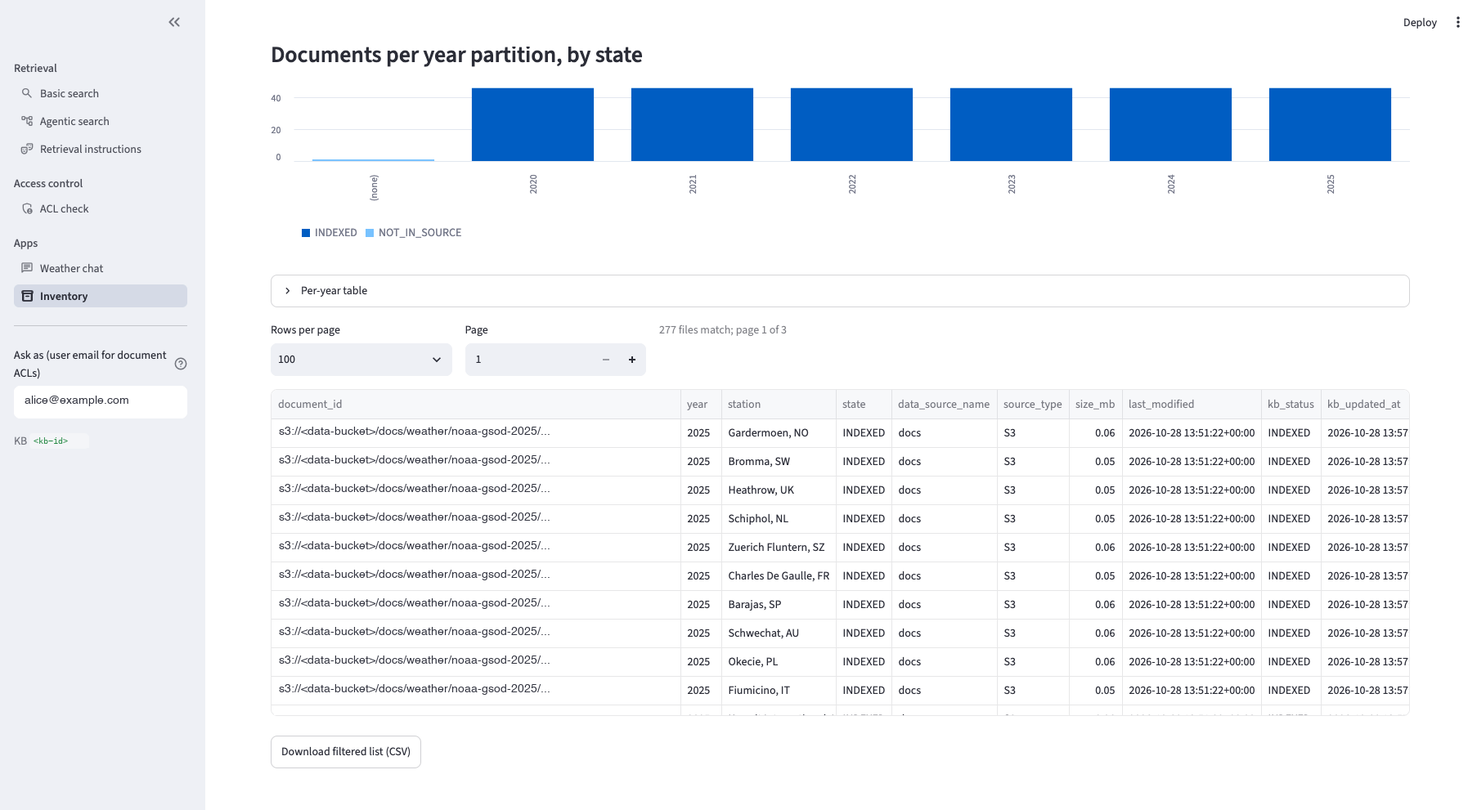
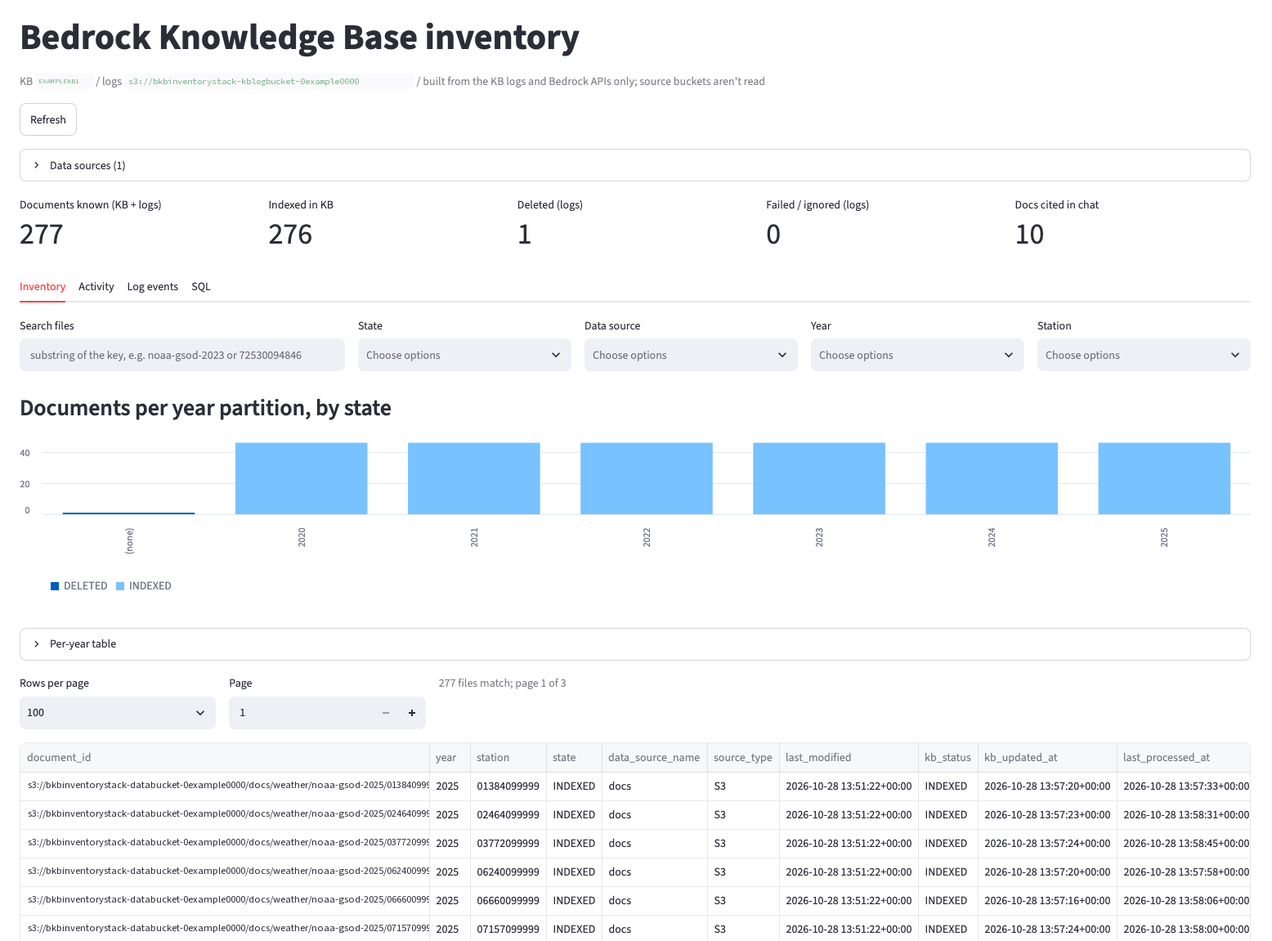
cleanup claims on file sizes

diff --git a/lib/bkb_inventory-stack.ts b/lib/bkb_inventory-stack.ts
@@ -61,6 +61,12 @@ export interface BkbInventoryStackProps extends cdk.StackProps {
    * Default: daily. Pass `null` to sync only on deploy.
    */
   readonly weatherSyncSchedule?: events.Schedule | null;
+  /**
+   * Let the inventory page list the S3 data sources (ListObjectsV2) for file sizes and documents that are in the
+   * source but not in the knowledge base. Default: false (or the `sourceListing` context), so the inventory is
+   * built from the knowledge base logs and Bedrock APIs only.
+   */
+  readonly sourceListing?: boolean;
 }
 
 const APP_DIR = path.join(__dirname, '..', 'app');
@@ -555,6 +561,7 @@ exports.handler = async (event) => {
           ACL_DEFAULT_USER: documentAcls.find(a => a.allow.length)?.allow[0] ?? '',
           LOG_BUCKET: logBucket.bucketName,
           LOG_GROUP: kbLogGroup.logGroupName,
+          SOURCE_LISTING: String(props.sourceListing ?? String(this.node.tryGetContext('sourceListing')) === 'true'),
           CHAT_MODELS: chatModelIds.join(','),
           // Expected verdicts for the ACL check page (the task role can't read acl/ itself).
           DOCUMENT_ACLS: JSON.stringify(documentAcls),

diff --git a/app/common.py b/app/common.py
@@ -34,6 +34,9 @@ DATA_SOURCE_ID = os.environ["DATA_SOURCE_ID"]
 DATA_BUCKET = os.environ["DATA_BUCKET"]
 DATA_PREFIX = os.environ.get("DATA_PREFIX", "")
 LOG_BUCKET = os.environ["LOG_BUCKET"]
+# Off by default: the inventory is built from the KB logs and the Bedrock APIs only, without reading the source
+# buckets. On, it also lists every S3 data source (ListObjectsV2) for file sizes and NOT_CONSUMED / NOT_IN_SOURCE.
+SOURCE_LISTING = os.environ.get("SOURCE_LISTING", "false").lower() == "true"
 FAILED_STATUSES = ["FAILED", "FAILURE", "EMBEDDING_FAILED", "INDEXING_FAILED", "DELETION_FAILED", "METADATA_UPDATE_FAILED"]
 # Only this KB's logs: vended logs land under AWSLogs/<acct>/bedrock/knowledgebases/<region>/<kbId>/yyyy/MM/dd/HH/,
 # and a replaced KB leaves its old logs behind. Override for local dev, e.g. LOG_GLOB=./sample-logs/**/*.log.gz
@@ -129,6 +132,8 @@ def duck() -> duckdb.DuckDBPyConnection:
             COALESCE(event ->> '$.document_location.type', event ->> 'content_type') AS content_type,
             event ->> 'hashed_document_id'                               AS hashed_document_id,
             event ->> 'document_title'                                   AS document_title,
+            -- The source's own last-modified time as the connector saw it (managed KBs).
+            TRY_CAST(event ->> '$.metadata._last_updated_at' AS TIMESTAMPTZ) AS source_updated_at,
             event ->> 'crawl_action'                                     AS crawl_action,
             event ->> '$.crawl_status.Status'                            AS crawl_status,
             event ->> '$.index_status.Status'                            AS index_status,
@@ -285,8 +290,17 @@ def data_sources() -> pd.DataFrame:
     return pd.DataFrame(rows, columns=cols)
 
 
-@st.cache_data(ttl=60)
 def source_listings() -> tuple[pd.DataFrame, list[str]]:
+    """The inventory's view of the sources: the S3 listing when SOURCE_LISTING is on, otherwise nothing, so the
+    inventory never reads the data sources' buckets. Returns (objects, sources that were not listed)."""
+    if SOURCE_LISTING:
+        return list_s3_sources()
+    return (pd.DataFrame(columns=["uri", "data_source_id", "size_mb", "last_modified"]),
+            list(data_sources()["data_source_id"]))
+
+
+@st.cache_data(ttl=60)
+def list_s3_sources() -> tuple[pd.DataFrame, list[str]]:
     """List the objects of every S3 data source. Returns (objects, sources that could not be listed).
 
     Only S3 can be listed with the task role; SaaS connectors (SharePoint, ServiceNow, ...) have no listing,
@@ -356,6 +370,7 @@ def inventory() -> pd.DataFrame:
                arg_max(data_source_id, ts) AS data_source_id,
                arg_max(source_uri, ts) FILTER (WHERE source_uri IS NOT NULL) AS source_uri,
                arg_max(document_title, ts) FILTER (WHERE document_title IS NOT NULL) AS document_title,
+               arg_max(source_updated_at, ts) FILTER (WHERE source_updated_at IS NOT NULL) AS source_updated_at,
                arg_max(hashed_document_id, ts) FILTER (WHERE hashed_document_id IS NOT NULL) AS hashed_document_id,
                arg_max(status_reasons, ts) FILTER (WHERE status_reasons IS NOT NULL) AS last_reasons,
                max(chunks_created) FILTER (WHERE status IN ('INDEXED', 'PARTIALLY_INDEXED')) AS chunks_created,
@@ -364,7 +379,7 @@ def inventory() -> pd.DataFrame:
     """)
     if latest.empty:
         latest = pd.DataFrame(columns=["uri", "last_log_status", "last_log_at", "data_source_id", "source_uri",
-                                       "document_title", "hashed_document_id", "last_reasons", "chunks_created",
+                                       "document_title", "source_updated_at", "hashed_document_id", "last_reasons", "chunks_created",
                                        "jobs_seen"])
 
     # Outer joins: a doc can be in S3 but never ingested, or only in logs (e.g. ignored, or since deleted from S3).
@@ -375,6 +390,9 @@ def inventory() -> pd.DataFrame:
         inv.pop("data_source_id_log"))
     ds = data_sources()
     inv = inv.merge(ds[["data_source_id", "data_source_name", "source_type"]], on="data_source_id", how="left")
+    # The S3 listing's time when listed, otherwise the source time the connector logged.
+    inv["last_modified"] = pd.to_datetime(inv["last_modified"], utc=True).fillna(
+        pd.to_datetime(inv.pop("source_updated_at"), utc=True))
     inv["consumed"] = inv["kb_status"].eq("INDEXED")
     inv["in_source"] = inv["size_mb"].notna()
     # Listable = we know the full source contents (S3 sources the task role can read).
@@ -422,7 +440,8 @@ def station_names() -> dict[str, str]:
     """document_id -> "station NAME (year)". The NAME comes from the first data row of one CSV per station
     (a 2 KB range read); the year from its noaa-gsod-<year>/ partition."""
     names, by_station = {}, {}
-    listed, _ = source_listings()
+    # Labels for the search and chat pages; the inventory page doesn't use them, so it never reads the documents.
+    listed, _ = list_s3_sources()
     for uri in listed["uri"]:
         if uri.endswith(".csv"):
             by_station.setdefault(uri.rsplit("/", 1)[-1], []).append(uri)

diff --git a/app/inventory_page.py b/app/inventory_page.py
@@ -10,11 +10,12 @@ SaaS sources (SharePoint, ServiceNow, ...) can't be listed, so their rows come f
 import pandas as pd
 import streamlit as st
 
-from common import (FAILED_STATUSES, KB_ID, LOG_BUCKET, data_sources, ingestion_jobs, inventory, query, source_listings,
-                    station_names, user_query)
+from common import (FAILED_STATUSES, KB_ID, LOG_BUCKET, SOURCE_LISTING, data_sources, ingestion_jobs, inventory, query,
+                    source_listings, user_query)
 
 st.title("Bedrock Knowledge Base inventory")
-st.caption(f"KB `{KB_ID}` / logs `s3://{LOG_BUCKET}`")
+st.caption(f"KB `{KB_ID}` / logs `s3://{LOG_BUCKET}`"
+           + ("" if SOURCE_LISTING else " / built from the KB logs and Bedrock APIs only; source buckets aren't read"))
 
 # Read-only: the task role can't start syncs. Ingestion runs from `cdk deploy` (weather or ACL changes) and the
 # weather-sync schedule (only when the mirrored data changes).
@@ -27,16 +28,23 @@ _, unlisted = source_listings()
 with st.expander(f"Data sources ({len(ds)})"):
     st.dataframe(ds.assign(listed=~ds["data_source_id"].isin(unlisted) & ds["bucket"].notna()),
                  width="stretch", hide_index=True)
-    if unlisted:
+    if not SOURCE_LISTING:
+        st.caption("Source listing is off (`SOURCE_LISTING`), so rows come from the KB logs and "
+                   "ListKnowledgeBaseDocuments only: no file sizes and no NOT_CONSUMED / NOT_IN_SOURCE rows.")
+    elif unlisted:
         st.caption("Unlisted sources (SaaS connectors, or S3 buckets the task role can't read) show only what the "
                    "KB API and logs know about: no NOT_CONSUMED / NOT_IN_SOURCE rows.")
 
 # Current-state metrics. Chunk counts only exist in vector-KB logs; managed KBs don't log them.
-metrics = [
-    ("Objects in listed sources", int(inv["in_source"].sum())),
-    ("Indexed in KB", int(inv["consumed"].sum())),
-    ("Not consumed", int((inv["in_source"] & ~inv["consumed"]).sum())),
-    ("Not in source", int((inv["listable"] & ~inv["in_source"]).sum())),
+metrics = [("Indexed in KB", int(inv["consumed"].sum()))]
+if SOURCE_LISTING:
+    metrics = [("Objects in listed sources", int(inv["in_source"].sum())), *metrics,
+               ("Not consumed", int((inv["in_source"] & ~inv["consumed"]).sum())),
+               ("Not in source", int((inv["listable"] & ~inv["in_source"]).sum()))]
+else:
+    metrics = [("Documents known (KB + logs)", len(inv)), *metrics,
+               ("Deleted (logs)", int((inv["last_log_status"].eq("DELETED") & ~inv["consumed"]).sum()))]
+metrics += [
     ("Failed / ignored (logs)", int(inv["last_log_status"].isin(FAILED_STATUSES + ["RESOURCE_IGNORED"]).sum())),
     ("Docs cited in chat", int((inv["times_cited"] > 0).sum())),
 ]
@@ -57,12 +65,13 @@ with tab_inv:
     df.loc[df["last_log_status"].isin(["RESOURCE_IGNORED"]), "state"] = "IGNORED"
     df.loc[df["kb_status"].eq("FAILED") | df["last_log_status"].isin(FAILED_STATUSES), "state"] = "FAILED"
     df.loc[df["kb_status"].isin(["PENDING", "STARTING", "IN_PROGRESS"]), "state"] = "IN_PROGRESS"
+    df.loc[df["last_log_status"].eq("DELETED"), "state"] = "DELETED"
     df.loc[df["consumed"], "state"] = "INDEXED"
     df.loc[df["listable"] & ~df["in_source"], "state"] = "NOT_IN_SOURCE"  # KB/log only: since deleted from S3
     # Weather docs are partitioned as noaa-gsod-<year>/<station>.csv; other documents have no year or station.
     df["year"] = df["key"].str.extract(r"noaa-gsod-(\d{4})/", expand=False)
-    names = station_names()
-    df["station"] = df["uri"].map(names).str.replace(r" \(\d{4}\)$", "", regex=True)
+    # Station ID from the key, so the page never reads the documents themselves.
+    df["station"] = df["key"].str.extract(r"noaa-gsod-\d{4}/([^/]+)\.csv$", expand=False)
 
     # ---- filters
     f1, f2, f3, f4, f5 = st.columns([3, 2, 2, 2, 2])
@@ -99,9 +108,10 @@ with tab_inv:
     p3.caption(f"{len(df):,} files match; page {page} of {pages}")
     st.dataframe(
         df.iloc[(page - 1) * page_size: page * page_size][
-            ["uri", "year", "station", "state", "data_source_name", "source_type", "size_mb", "last_modified",
-             "kb_status", "kb_updated_at", "last_log_at", "jobs_seen", "times_cited", "last_cited_at",
-             "last_reasons", "kb_status_reason", "source_uri"]],
+            ["uri", "year", "station", "state", "data_source_name", "source_type"]
+            + (["size_mb"] if SOURCE_LISTING else [])
+            + ["last_modified", "kb_status", "kb_updated_at", "last_log_at", "jobs_seen", "times_cited",
+               "last_cited_at", "last_reasons", "kb_status_reason", "source_uri"]],
         width="stretch", hide_index=True,
         # document_id (s3:// URI for S3) is what CheckIngestedDocumentAcl / GetIngestedDocumentAcl expect.
         column_config={"uri": st.column_config.TextColumn("document_id"),

diff --git a/README.md b/README.md
@@ -105,8 +105,8 @@ A Streamlit multipage app in one container. Every page sends the sidebar's **Ask
 | Agentic search | `AgenticRetrieveStream` | A live trace (planning, sub-queries, full-document expansions) and a streamed answer whose `[n]` citation marks point into the results table |
 | Retrieval instructions | `AgenticRetrieveStream` with `retrievalInstructionConfiguration` | Pick a persona, see its fields and review status, and run a demo question side by side with and without the instruction. The second demo question is one the persona's answer policy should decline or redirect |
 | ACL check | `GetDocumentContent` with `userContext` | A documents-by-users matrix of ALLOW / DENY / NOT_FOUND / ERROR, compared with the verdict the stack's ACL predicts, with CSV download. A run where no expected ALLOW returns ALLOW is marked invalid |
-| Weather chat | `Converse` with `Retrieve` as a tool | A Claude agent that cites the chunks it used, with each cited document's ingestion history |
-| Inventory | S3 and knowledge base APIs, DuckDB over the logs | What the knowledge base has ingested, see below |
+| Weather chat | `ConverseStream` with `Retrieve` as a tool | A Claude agent that cites the chunks it used, with each cited document's ingestion history |
+| Inventory | DuckDB over the knowledge base logs, knowledge base APIs, and optionally S3 listing | What the knowledge base has ingested, see below |
 
 Agentic search and the instruction page use `foundationModelType: MANAGED`, so Bedrock picks the planning model. That model is invoked with the caller's credentials, so the task role has `bedrock:InvokeModelWithResponseStream` on `*`, as described in the [Bedrock User Guide](https://docs.aws.amazon.com/bedrock/latest/userguide/kb-test-agentic-retrieve.html#kb-agentic-retrieve-permissions).
 
@@ -114,60 +114,79 @@ The retrieval instructions page runs the same question with and without a person
 
 ![Retrieval instructions page: baseline answer next to the answer with the "Sunny, the TV forecaster" instruction applied](images/retrieval-instructions.png)
 
-Station names come from the `NAME` column of each CSV file, read with a 2 KB range request and cached for an hour. The ACL check only knows the global ACL file, not per-document `.metadata.json` overrides.
+On the search, ACL check and chat pages, station names come from the `NAME` column of each CSV file, read with a 2 KB range request and cached for an hour. The inventory page shows the station ID from the object key instead, so it doesn't read the documents. The ACL check only knows the global ACL file, not per-document `.metadata.json` overrides.
 
 ### Weather chat
 
 Claude on Bedrock (the `ConverseStream` API) with one tool, `search_knowledge_base`, backed by the knowledge base `Retrieve` API and filtered by the sidebar user's ACLs. The model decides when and what to search, can search several times per question, and cites retrieved chunks inline as `[S1]`, `[S2]` and so on.
 
-- **Sources**: each answer lists the chunks it cited (station, score, text), joined to the inventory: knowledge base status, chunk count, last ingestion time and how often the document has been cited.
+- **Sources**: each answer lists the chunks it cited (station, score, text), joined to the inventory: knowledge base status, last ingestion time, how often the document has been cited and, where the logs record it (vector knowledge bases), the chunk count.
 - **Citation events**: the citations of every answer are written as JSON Lines to `s3://<log bucket>/app/citations/dt=YYYY-MM-DD/`. DuckDB reads them back as the `kb_citations` view, so the inventory shows how often each document was used in answers, in addition to whether it was ingested. Each event holds the question and the **Ask as** address, so a lifecycle rule deletes them after 90 days; the knowledge base logs under `AWSLogs/` are kept as the ingestion history.
 - **Models**: a sidebar picker over the cross-Region inference profiles in the `chatModelIds` stack prop. The `bedrock:InvokeModel` grant is scoped to those profiles, but agentic retrieval needs `bedrock:InvokeModelWithResponseStream` on `*` (see above), so the task role can stream any model the account has access to. See [Security](#security).
 - `RetrieveAndGenerate` isn't used because it requires custom orchestration and generation prompt templates for Claude 5 models. `Retrieve` plus `Converse` with tool use gives more control.
 
 ### Inventory
 
-- **Inventory**: search by key, filter by state and group files per day (UTC), by S3 last-modified time or last knowledge base activity. A per-day chart and table, a paginated file list and CSV export of the filtered set. Each row combines three sources, keyed by document ID:
-  1. `ListObjectsV2` on the data bucket: what *should* be in the knowledge base
-  2. `ListKnowledgeBaseDocuments`: what the knowledge base says it has now (`INDEXED`, `FAILED`, ...)
-  3. the knowledge base logs, through DuckDB: the latest status per document, ignore and failure reasons, and how many ingestion jobs touched it
+The inventory answers two questions: what is in the knowledge base now, and what each ingestion job did. It is built from what the knowledge base itself reports, without reading the source buckets. Each document is keyed by its document ID and combines:
 
-  This surfaces documents that are in S3 but were never ingested, and documents that were ignored and only show up in the logs. It covers **every data source of the knowledge base**, see [Other data sources](#other-data-sources).
+1. The knowledge base logs in the log bucket, read with DuckDB: the latest status per document (including deletions), ignore and failure reasons, the source's last-modified time as the connector saw it, and how many ingestion jobs processed it
+2. `ListKnowledgeBaseDocuments`: what the knowledge base says it has now (`INDEXED`, `FAILED`, ...)
+3. Optionally, `ListObjectsV2` on each S3 data source, see [Source listing](#source-listing)
 
-  ![Inventory page: documents per year partition by state, and the paginated file list](images/inventory.png)
-- **Ingestion jobs**: from `ListIngestionJobs` and the `StartIngestionJob.StatusChanged` log events.
-- **Log events**: the raw event timeline.
+This surfaces documents that were ignored or failed and only show up in the logs, and documents that were deleted. It covers **every data source of the knowledge base**; see [Other data sources](#other-data-sources) for what changes with connectors other than S3.
+
+The top of the page shows counts: documents known to the knowledge base and its logs, indexed, deleted, failed or ignored, and cited in chat. Below that are four tabs:
+
+- **Inventory**: current state, one row per document. Search by key and filter by state, data source, year and station ID. A chart and table of documents per year partition, a paginated file list and a CSV export of the filtered set.
+
+  ![Inventory page: documents per year partition by state, including one deleted document, and the paginated file list](images/inventory.png)
+- **Activity**: history. Documents processed per day by logged status (for example `INDEXED` or `DELETED`), filterable by date range and ingestion job, followed by the jobs from `ListIngestionJobs` and their `StartIngestionJob.StatusChanged` milestones from the logs.
+- **Log events**: the raw event timeline. Select one or more ingestion jobs in the table at the top to see only their events, and filter by level, event type and status. For example, select a job and the status `DELETED` to see which documents that job removed.
 - **SQL**: read-only DuckDB SQL over the `kb_logs`, `kb_logs_raw` and `kb_citations` views. Only `SELECT` (including `WITH`, `DESCRIBE` and `SUMMARIZE`) and `EXPLAIN` statements run, checked with DuckDB's parser, so `COPY ... TO`, `EXPORT`, `ATTACH`, `CREATE` and `SET` are refused. The connection is also sandboxed: it can only reach the knowledge base log and citation prefixes in the log bucket. Local files, HTTP, other S3 locations, installing extensions and changing settings are blocked.
 
 The app is read-only for the knowledge base: it can't start syncs. Ingestion runs from `cdk deploy` (when the documents or ACLs change) and from the `WeatherSync` schedule (when the source files change).
 
+#### Source listing
+
+The logs only know about documents the connector saw. A document that was never picked up, for example one with no ACL entry, doesn't appear in them. To find those, and to show file sizes, deploy with `./scripts/deploy.sh -c sourceListing=true` (or set the `sourceListing` stack prop). The inventory then also lists every S3 data source with `ListObjectsV2` and adds:
+
+- the counts of objects in the listed sources, objects not consumed (`NOT_CONSUMED`) and documents no longer in the source (`NOT_IN_SOURCE`)
+- a `size_mb` column, and the last-modified time from the listing
+
+Listing reads the source buckets, needs `s3:ListBucket` on each of them, and makes one request per 1,000 objects, at most once a minute while the page is in use. It is off by default.
+
 ## Other data sources
 
-The app is connector-agnostic. It discovers the knowledge base's data sources with `ListDataSources` and `GetDataSource` and inventories all of them, so adding a SharePoint, ServiceNow, Confluence, web crawler or other connector to the knowledge base is enough. The stack itself only creates the S3 data source.
+The stack only creates an S3 data source, but the app works with any connector. It discovers the knowledge base's data sources with `ListDataSources` and `GetDataSource` and inventories all of them, so adding a SharePoint, ServiceNow, Confluence, web crawler or other data source to the knowledge base is enough. To set up connectors such as SharePoint, OneDrive, Confluence or Google Drive for a managed knowledge base, see [KB Connector Helper](https://github.com/aws-samples/sample-managed-kb-connector-setup).
+
+What differs between connectors:
 
 - **Logs**: the vended log envelope (`event_timestamp`, `event_type`, `level`, `event`) is the same for every connector. Managed knowledge bases log a connector-independent document event with `document_id`, `source_uri`, `content_type`, per-stage statuses and `connector_document_status` ([documentation](https://docs.aws.amazon.com/bedrock/latest/userguide/kb-managed-observability.html)). Vector knowledge bases nest the location per connector instead (`document_location.s3_location.uri`, `web_location.url`, ...). The `kb_logs` view handles both.
-- **Key**: rows are keyed by `document_id` (an `s3://` URI for S3, the connector's ID otherwise). `Retrieve` returns the document's `source_uri` as its location, so chat citations are mapped back to `document_id` through the logs.
-- **Source listing**: only S3 data sources can be listed, and the task role can only read `docs/` in its own bucket; grant read access to other buckets to list them too. SaaS sources such as SharePoint and ServiceNow have no listing, so their rows come from `ListKnowledgeBaseDocuments` and the logs only. They show `INDEXED`, `FAILED` or `IGNORED` with reasons and citations, but never `NOT_CONSUMED` or `NOT_IN_SOURCE`.
+- **Document ID**: an `s3://` URI for S3, the connector's own ID otherwise. `Retrieve` returns the document's `source_uri` as its location, so chat citations are mapped back to the document ID through the logs.
+- **Source listing**: when [source listing](#source-listing) is on, only S3 data sources are listed. The task role can only read `docs/` in its own bucket, so grant it read access to any other bucket you want listed. SaaS sources such as SharePoint and ServiceNow are never listed, so their rows always come from `ListKnowledgeBaseDocuments` and the logs only.
+- **File sizes**: at the time of writing, neither the knowledge base application logs nor `ListKnowledgeBaseDocuments` include a document's size. The log delivery's field selection only chooses which top-level fields are written, so it can't add one. The `size_mb` column therefore needs source listing, and is only available for S3 sources.
+
+  This sample doesn't collect sizes from other connectors. If you need them, add a listing for that connector to `list_s3_sources()` in [`app/common.py`](app/common.py), or a function like it. Use the source system's own API with read-only credentials granted for that purpose, and key the rows by the same document ID the knowledge base logs. A listing also enables `NOT_CONSUMED` and `NOT_IN_SOURCE` for that source.
 - **ACLs**: `userContext` works the same for every connector. SharePoint ACLs need `ENTRA_ID_APP_ONLY` authentication, and ServiceNow ACLs enforce its user criteria.
 
 ## Design notes
 
 **S3 and CloudWatch Logs for the knowledge base logs.** Both are deployed, for different needs:
 
-- S3 is the copy for analysis. Delivery to S3 costs less than CloudWatch Logs ingestion, and DuckDB reads the files in place. Knowledge base logs can be delivered to S3 as `plain`, `json` or `w3c`, not Parquet. The key layout is `AWSLogs/<account>/bedrock/knowledgebases/<region>/<knowledgeBaseId>/{yyyy}/{MM}/{dd}/{HH}/`, and DuckDB reads only the current knowledge base's prefix, because a replaced knowledge base leaves its old logs behind. Managed knowledge base document events carry `document_id` (the `s3://` URI), `hashed_document_id`, `document_title`, `crawl_action` and the per-stage `crawl_status`, `index_status` and `sync_status`. The `kb_logs` view maps them onto document statuses (for example `sync_status = SUCCESS` → `INDEXED`).
+- S3 is the copy for analysis. Delivery to S3 costs less than CloudWatch Logs ingestion, and DuckDB reads the files in place. Knowledge base logs can be delivered to S3 as `plain`, `json` or `w3c`, not Parquet. The key layout is `AWSLogs/<account>/bedrock/knowledgebases/<region>/<knowledgeBaseId>/{yyyy}/{MM}/{dd}/{HH}/`, and DuckDB reads only the current knowledge base's prefix, because a replaced knowledge base leaves its old logs behind. Managed knowledge bases report a status per stage (`crawl_status`, `index_status`, `sync_status`, `connector_document_status`) plus a `crawl_action`. The `kb_logs` view maps these onto one document status: a successful stage becomes `INDEXED`, or `DELETED` when the action is `DELETE`, and a failed stage becomes `FAILED`.
 - CloudWatch Logs is the operational copy: Logs Insights for debugging (`filter event.status = "RESOURCE_IGNORED"`) and metric filters or alarms on `level = "ERROR"`. Retention is one month. If cost matters, this is the one to drop.
 
 **DuckDB.** Logs are only written during ingestion jobs (roughly one event per document state change), so even thousands of documents produce little data. DuckDB scans the gzipped JSON files directly, with no AWS Glue or Amazon Athena setup. The `event` column is read as `JSON` because job-level and document-level events have different shapes. Credentials come from the task role and are passed to DuckDB as a secret on every query, so role credential rotation is handled. For much larger volumes, compact the logs to Parquet on a schedule or use Athena.
 
-**Logs are history, not state.** The authoritative list of what is indexed now is `ListKnowledgeBaseDocuments`. The logs add why (ignore reasons) and when. The inventory uses both.
+**Logs are history, not state.** The authoritative list of what is indexed now is `ListKnowledgeBaseDocuments`. The logs add why (ignore reasons) and when. The inventory uses both. The stack keeps the knowledge base logs under `AWSLogs/` with no expiry, because the history (including when each document was deleted) is rebuilt from them on every page load. For this sample, analytics straight from S3 is enough. For a production inventory, consider writing each document's latest state to a persistent store such as Amazon DynamoDB as log files arrive, so the current state doesn't depend on keeping and rescanning every log file.
 
-**Scale.** The inventory loads the full S3 listing and knowledge base document list into memory, which works up to roughly 100,000 files, and DuckDB scans the full log history for the latest status per document. Beyond that, compact the logs to Parquet daily and keep a materialized latest-status table.
+**Scale.** The inventory loads the knowledge base document list (and, with source listing on, the S3 listing) into memory, and DuckDB scans the full log history for the latest status per document. Results are cached for a minute. This works up to roughly 100,000 files. Beyond that, compact the logs to Parquet daily and keep a materialized latest-status table, and if you use source listing, read the file list from an [S3 Inventory](https://docs.aws.amazon.com/AmazonS3/latest/userguide/storage-inventory.html) report instead.
 
 ## Security
 
 - **No internet exposure.** The load balancer is internal and the tasks run in private subnets without public IP addresses. The only way in is a Session Manager session, so access is limited to IAM principals allowed `ecs:ExecuteCommand` and `ssm:StartSession` on the task. The tunnel is encrypted by Session Manager; the load balancer listener itself is HTTP inside the VPC.
 - **No authentication in the app.** Everyone who can open the tunnel has the same access, and the **Ask as** field is not an identity. Before sharing the app with users who should only see their own documents, put authentication in front of it (for example Application Load Balancer authentication with Amazon Cognito or your OIDC identity provider) and derive the `userContext` from the authenticated identity.
-- **Least privilege.** The app's task role can list and retrieve from this knowledge base, apply the stack's own retrieval instructions, read `docs/` in the data bucket and the log and citation prefixes in the log bucket, and write only chat citations. It can't start ingestion jobs or read the ACL file.
+- **Least privilege.** The app's task role can list and retrieve from this knowledge base, apply the stack's own retrieval instructions, read `docs/` in the data bucket (for station names on the search, ACL check and chat pages, and for source listing when it's on) and the log and citation prefixes in the log bucket, and write only chat citations. It can't start ingestion jobs or read the ACL file.
 - **Model invocation.** Because agentic retrieval needs `bedrock:InvokeModelWithResponseStream` on `*`, the task role, and anyone allowed to open the tunnel or use ECS Exec on the task, can stream any Bedrock model the account has access to, not only the `chatModelIds` profiles. Bound the cost with an [AWS Budgets](https://docs.aws.amazon.com/cost-management/latest/userguide/budgets-managing-costs.html) budget on Amazon Bedrock or a CloudWatch alarm on the `AWS/Bedrock` invocation and token metrics, and limit who can start a Session Manager session.
 - **Container.** The app runs as an unprivileged user, and ECR scans the image on push.
 - **Model output.** Answers are rendered as Markdown (raw HTML is not rendered). With the sample's numeric NOAA data that is safe, but a document from an untrusted source could carry instructions that make the model emit Markdown links or images; an image is fetched by the browser and could send text to an external URL. Before connecting untrusted sources, add [Amazon Bedrock Guardrails](https://docs.aws.amazon.com/bedrock/latest/userguide/guardrails.html) (for example prompt-attack filters) to the chat and agentic calls, and strip or neutralize links and images in model output.
@@ -180,6 +199,7 @@ The app is connector-agnostic. It discovers the knowledge base's data sources wi
 cd app && pip install -r requirements.txt && python -c "import duckdb; duckdb.sql('INSTALL httpfs')"
 AWS_REGION=us-east-1 KB_ID=... DATA_SOURCE_ID=... DATA_BUCKET=... LOG_BUCKET=... streamlit run app.py
 # LOG_GLOB='./sample-logs/**/*.log.gz' reads local log files instead of S3
+# SOURCE_LISTING=true also lists the S3 data sources on the inventory page
 ```
 
 Run the CDK unit tests with `npm test`.
